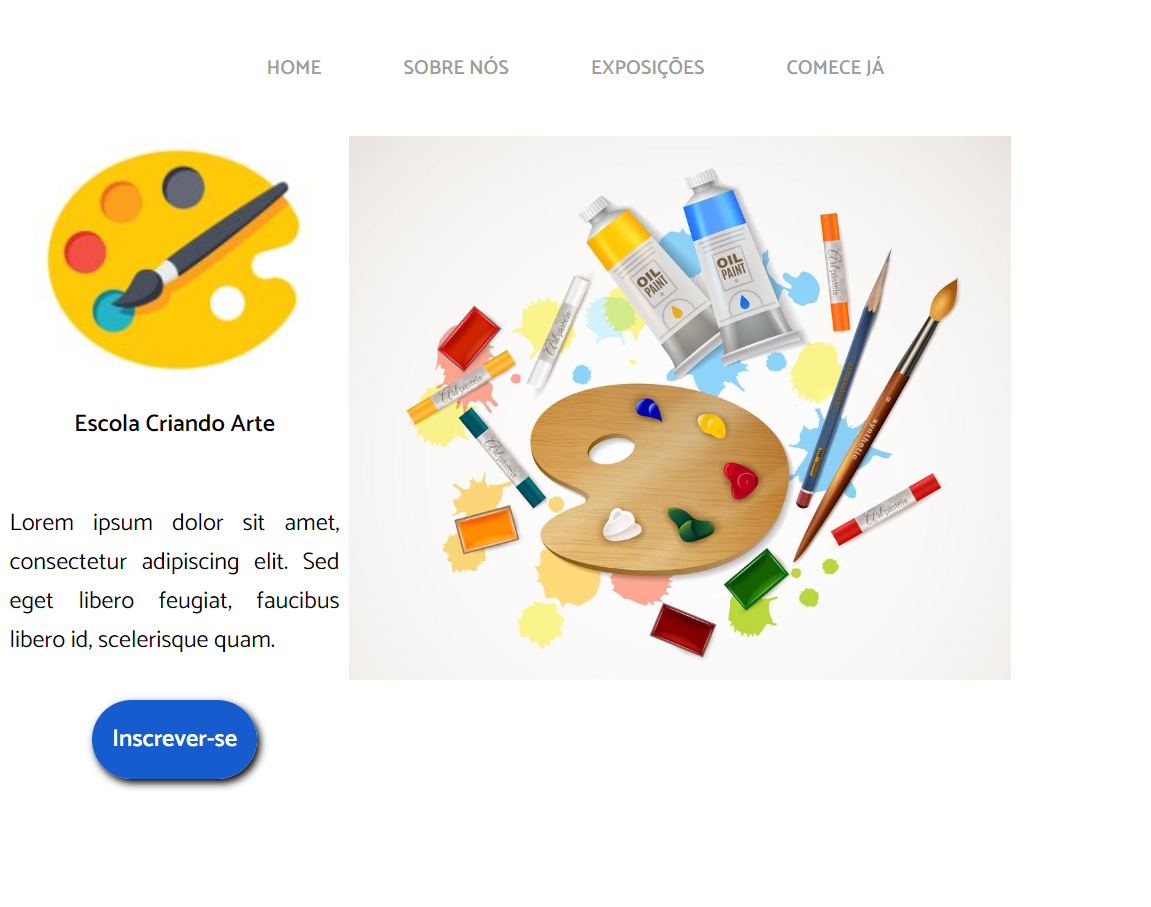
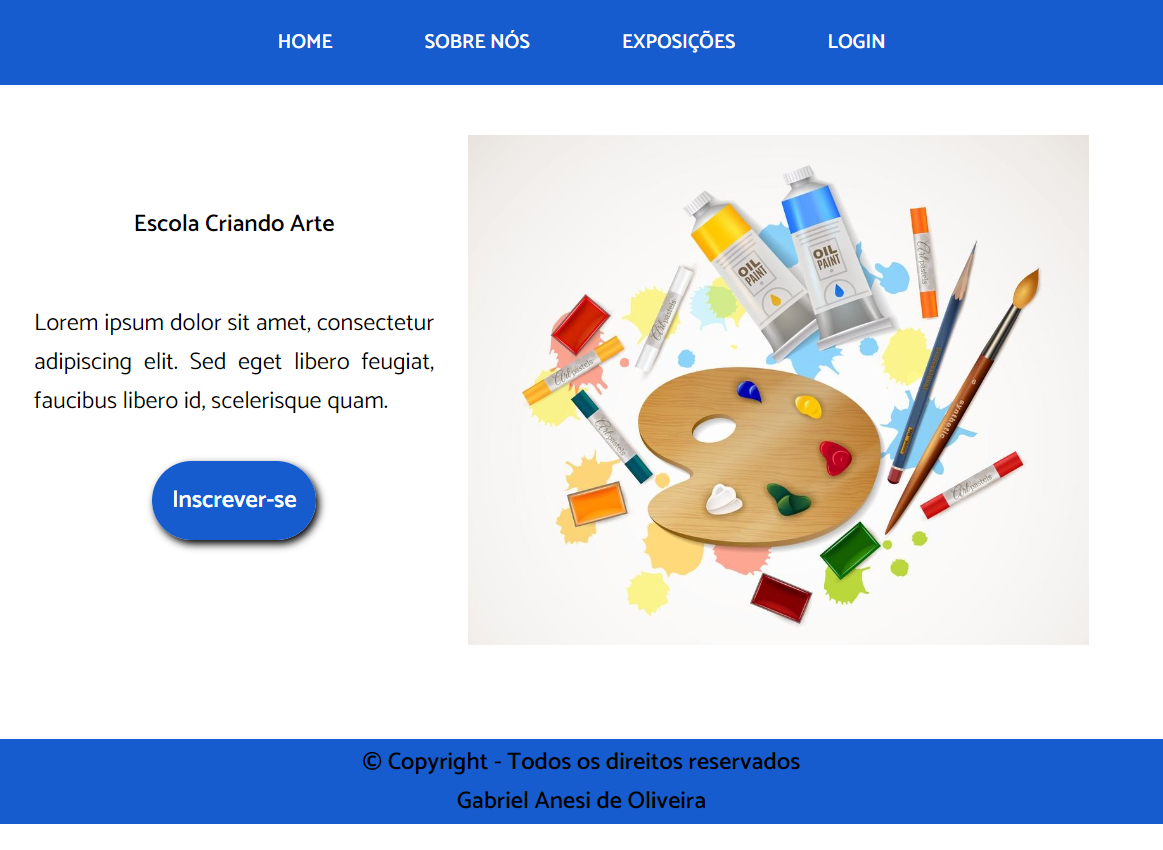
deixando o site responsivo

diff --git a/04 - Landing page/assets/style.css b/04 - Landing page/assets/style.css
@@ -14,19 +14,22 @@
 .fundo_secao {
     display: flex;
     justify-content: space-evenly;
+    margin-top: 50px;
 }
 
 .cabecalho {
     display: flex;
     align-items: center;
     justify-content:center;
-    height: 15vh;
+    height: 10vh;
+    background-color: #165cce;
 }
 
 .cabecalho a {
     text-decoration: none;
-    color: #9d9d9d;
+    color: white;
     font-size: 20px;
+
 }
 
 .cabecalho a:hover {
@@ -42,16 +45,10 @@
     font-weight: 600;
 }
 
-
-.texto_descricao .logo {
-    display: flex;
-    flex-direction: column;
-}
-
 .esquerda {
     display: flex;
-    width: 230px;
-    margin: -80px;
+    width: 300px;
+    margin: 10px;
 }
 
 .titulo_descricao {
@@ -91,4 +88,81 @@
 
 .direita img {
     height: 60vh;
+}
+.footer_copy {
+    margin-top: 10vh;
+}
+.footer_copy h2 {
+    display: flex;
+    align-items: center;
+    justify-content:center;
+    height: 10vh;
+    background-color: #165cce;
+    flex-direction: column;
+}
+.footer_copy a {
+    text-decoration: none;
+    color: #000;
+}
+
+@media (max-width:400px) {
+    
+    .cabecalho {
+        display: flex;
+        justify-content: center;
+        width: 50px;
+}
+
+    .footer_copy {
+        width: 400px;
+    }
+}
+
+@media (max-width:430px) {
+    .botao h2 a {
+        font-size: 15px;
+    }
+    .cabecalho {
+        display: flex;
+        justify-content: center;
+}
+}
+@media (max-width:500px) {
+    .footer_copy h2 {
+        font-size: 15px;
+
+    }
+}
+
+@media (max-width:1150px) {
+    .direita {
+        display: none;
+        
+    }
+    body {
+        display: flex;
+        flex-direction: column;
+        flex-wrap: wrap;
+    }
+    .cabecalho {
+        height: 35vh;
+        width: 100vw;
+        margin-bottom: -70px;
+    }
+    .menu {
+        display: flex;
+        flex-direction: column;
+        flex-wrap: wrap;
+        justify-content: center;
+        padding: 20px;
+        width: 400px;
+    }
+    .menu a {
+        text-align: center;
+        padding: 17px;
+    }
+    .esquerda {
+        width: 30vw;
+        margin-left: 0vw;
+    }       
 }

diff --git a/04 - Landing page/index.html b/04 - Landing page/index.html
@@ -6,6 +6,7 @@
     <meta name="viewport" content="width=device-width, initial-scale=1.0">
     <title>Escola Criando Arte</title>
     <link rel="stylesheet" href="../04 - Landing page/assets/style.css">
+    <link rel="shortcut icon" href="../04 - Landing page/images/Icon.jpg">
 </head>
 <body>
         <header class="cabecalho">
@@ -14,7 +15,7 @@
                     <a href="">HOME</a>
                     <a href="">SOBRE NÓS</a>
                     <a href="">EXPOSIÇÕES</a>
-                    <a class="comece_ja" href="">COMECE JÁ</a>
+                    <a class="comece_ja" href="">LOGIN</a>
                 </div>
             </nav>
         </header>
@@ -23,10 +24,7 @@
         <section id="secao">
             <div class="fundo_secao">
                 <div class="esquerda">
-                    <div class="texto_descricao">
-                        <div class="logo">
-                            <img src="../04 - Landing page/images/Icon.jpg">
-                        </div>
+                    <div class="texto_descricao">            
                         <h1 class="titulo_descricao">
                             Escola Criando Arte
                         </h1>
@@ -47,6 +45,11 @@
 
         </section>
     </main>
+    <footer>
+        <div class="footer_copy">
+            <h2>&copy Copyright - Todos os direitos reservados<a href="https://github.com/gabriel-anesi">Gabriel Anesi de Oliveira</a></h2>
+        </div>
+    </footer>
 
 </body>
 </html>
